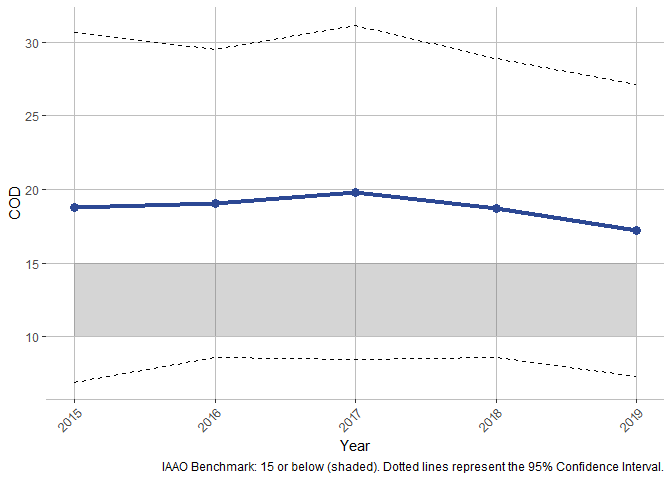
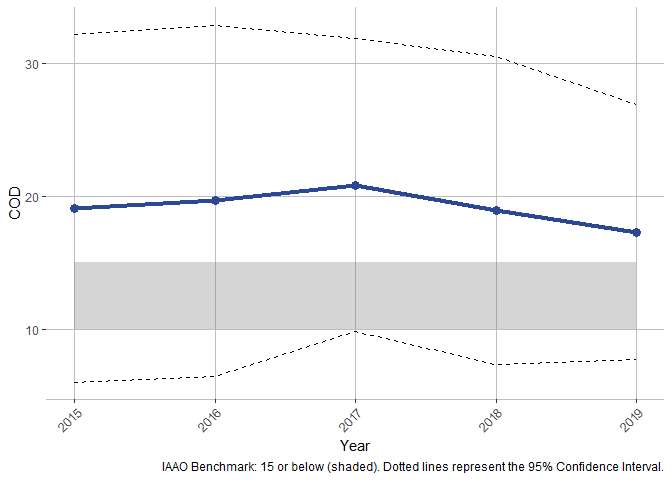
updating readme

diff --git a/README.md b/README.md
@@ -28,7 +28,7 @@ Then, preprocess your data with `reformat_data` and call `make_report`.
 The report will be created in your current working directory by default
 unless specified otherwise with parameter `output_dir`. The report from
 the example below can be found
-[here](https://erhla.github.io/Columbus,%20Ohio.html).
+[here](https://erhla.github.io/Cook%20County,%20Illinois.html).
 
 ``` r
 df <- cmfproperty::example_data
@@ -164,11 +164,11 @@ ratios <-
 stats <- cmfproperty::calc_iaao_stats(ratios)
 head(stats)
 #>       N     COD COD_SE    PRD PRD_SE     PRB PRB_SE  q1_ratio median_ratio
-#> 1 51879 18.8133 6.0563 1.0801 0.0074 -0.0514 0.0012 0.7758364    0.9093448
-#> 2 62852 19.0425 5.3311 1.0548 0.0054 -0.0462 0.0011 0.7705720    0.9001375
-#> 3 65961 19.8171 5.7883 1.0603 0.0090 -0.0269 0.0011 0.7428108    0.8732099
-#> 4 65298 18.7452 5.1702 1.0170 0.0034  0.0133 0.0010 0.7470336    0.8856039
-#> 5 62041 17.2598 5.0549 1.0219 0.0026  0.0098 0.0010 0.7681042    0.9035000
+#> 1 51879 19.0847 6.6618 1.0775 0.0066 -0.0514 0.0012 0.7758364    0.9093448
+#> 2 62852 19.6790 6.7343 1.0838 0.0056 -0.0462 0.0011 0.7705720    0.9001375
+#> 3 65961 20.8489 5.6169 1.0625 0.0093 -0.0269 0.0011 0.7428108    0.8732099
+#> 4 65298 18.9213 5.9109 1.0214 0.0021  0.0133 0.0010 0.7470336    0.8856039
+#> 5 62041 17.3147 4.8929 1.0226 0.0034  0.0098 0.0010 0.7681042    0.9035000
 #>   q3_ratio q1_sale median_sale q3_sale q1_assessed_value median_assessed_value
 #> 1 1.057180  148000      230000  375000          136670.0                213430
 #> 2 1.060422  148000      229900  365000          133940.0                209150
